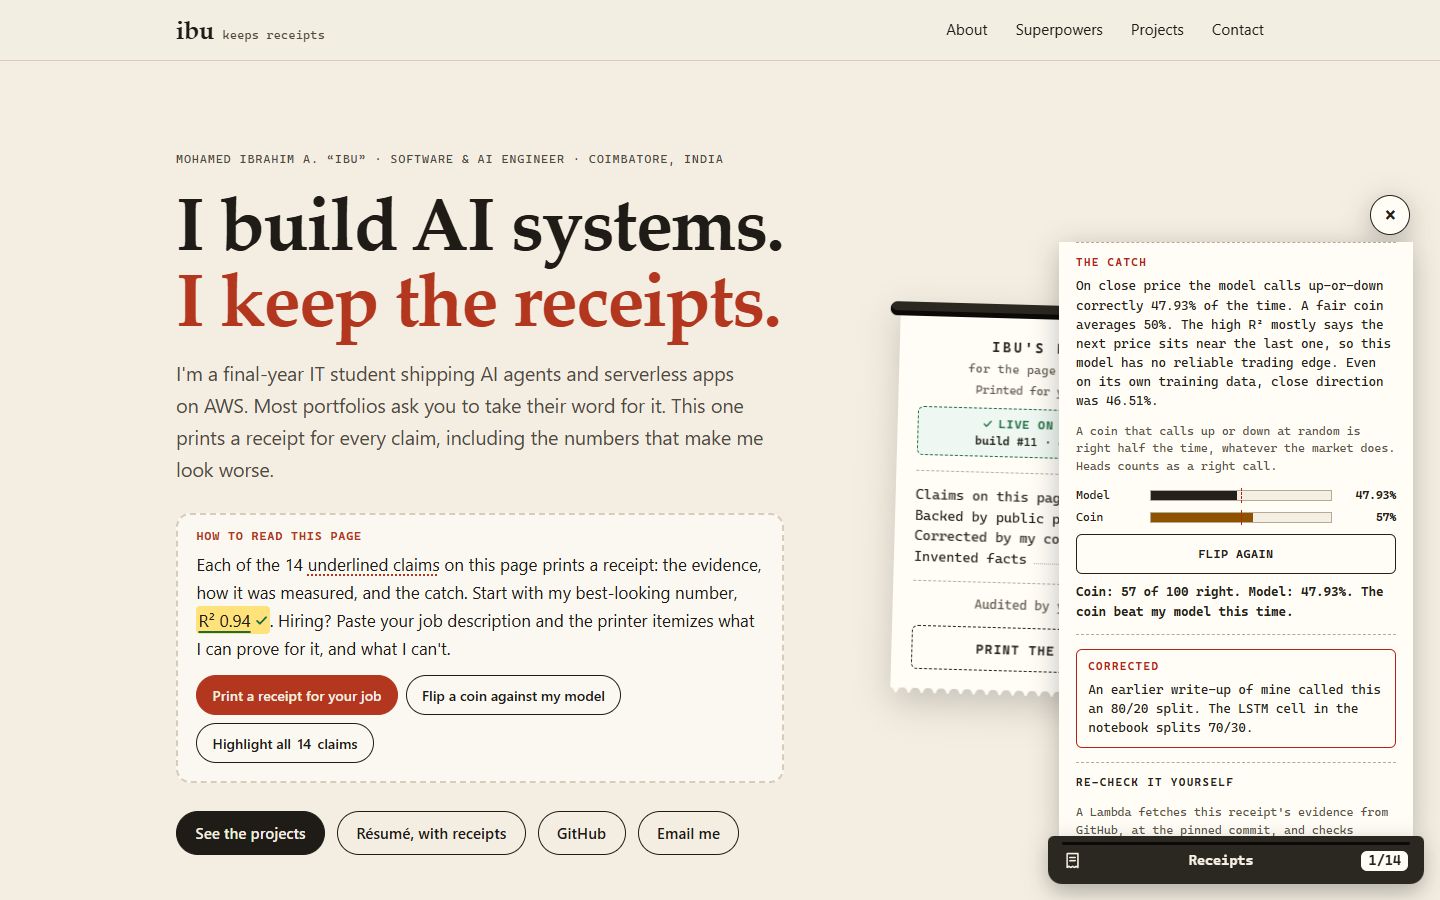
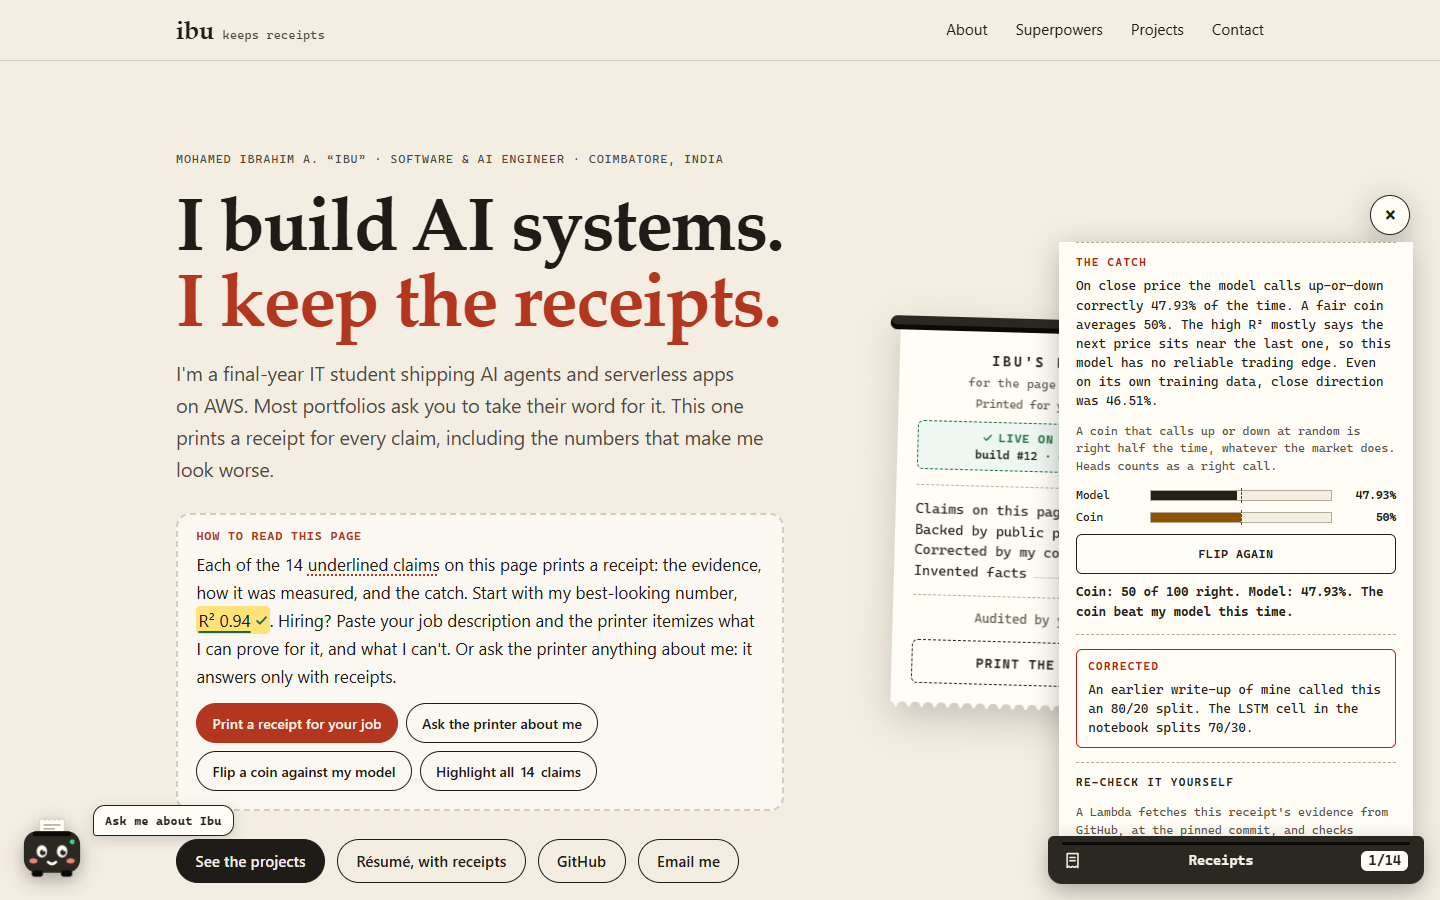
Screenshots and docs from build #12, with Chit [skip-cd]
- Every website shot recaptured from the live site at build #12, after Chit's
  hello has gone, plus three of Chit: 29 (desktop, best project), 30 (phone,
  Kubernetes: no receipt) and 31 (the hello, close up).
- Measured live at build #12: first visit about 124 KB on a desktop and 142 KB
  on a phone; 58 KB of compressed JavaScript, 25 KB of it Chit; 709 KB shipped
  in all. The README and the write-up say so, and name build #12, commit 3d38dbb.

Changed region(s): [[0.0, 0.7156, 0.5312, 0.9956], [0.5938, 0.3111, 0.75, 0.8089]]

diff --git a/README.md b/README.md
@@ -29,7 +29,7 @@ What else it does:
 - **A receipt for your job.** Paste a job description, or pick one of three samples, and the printer itemizes it against what I can prove. Every requirement it recognises prints as **Proven** (linked to the exact file and line, at a pinned commit), **Partial** (with the reason) or **No receipt** ("I won't claim this"). It reads must-haves and nice-to-haves from the description's own headings. It runs entirely in the browser; nothing you paste is sent or saved. A closer reading by Amazon Nova Micro on Bedrock is built and tested on the [`bedrock-reader`](https://github.com/MdIbuA/ibu-receipts/tree/bedrock-reader) branch, waiting on Bedrock access for my account.
 - **Coin vs. model.** A **Flip a coin against my model** button on the first screen prints the CryptoPulse receipt and flips a coin 100 times against my LSTM's 47.93% direction accuracy. The coin often wins, and the receipt says so.
 - **The itemized bill.** A summary receipt with claims verified, partial and self-reported, write-ups corrected, invented facts (0), and how many receipts *you* have audited.
-- **The page's own receipt.** The hero receipt shows which Amplify build and commit you're looking at (for example "Live on AWS Amplify · build #11 · commit 344399e"). That line, and the footer claim "deployed on AWS Amplify", print a receipt the Amplify build writes at deploy time: app, branch, build number and commit. I don't write those numbers. AWS does.
+- **The page's own receipt.** The hero receipt shows which Amplify build and commit you're looking at (for example "Live on AWS Amplify · build #12 · commit 3d38dbb"). That line, and the footer claim "deployed on AWS Amplify", print a receipt the Amplify build writes at deploy time: app, branch, build number and commit. I don't write those numbers. AWS does.
 - **Re-check it yourself.** Every receipt ends with **Re-check with AWS Lambda**. A Lambda behind API Gateway fetches the evidence from GitHub at the pinned commit and runs that claim's checks again, live. There are 31 checks across 13 claims. On the page's own receipt, it asks the Amplify API which build is live.
 - **The page prints itself as you scroll.** Scissors cut each section's top edge into a perforation, section numbers are stamped and titles print line by line, cards feed up a beat apart, proof lines get a highlighter pass and the email address types itself. It's all CSS scroll-driven animation (`site/assets/motion.css`): the scroll position is the clock, so no script decides what shows, and reduced-motion visitors and older browsers get the finished page. On screens 1440px and wider, a small receipt in the margin prints a line for each section you stay to read.
 - **A résumé with receipts.** [`/resume/`](https://main.d1nj3qfdmf673t.amplifyapp.com/resume/) prints my résumé as one long receipt, with a PDF to download. It's generated from the same typed claims as the receipts (`scripts/resume.ts`), so it can't say anything a receipt doesn't. Every claim links to its live receipt, leads with its headline numbers and prints its catch, and the totals at the bottom are the bill's. The PDF is real text, tagged for screen readers and applicant trackers.
@@ -114,7 +114,7 @@ The site is TypeScript 7 under every strict flag, compiled by `tsc` into plain E
 - **The résumé can't drift.** It's printed from the claims. A test fails if the committed page differs from what the script prints, if a project leads with a line its receipt doesn't have, or if the PDF is older than the page it was printed from (it stores the hash of what it printed).
 - **Nothing ships unchecked.** The Amplify build runs the type check and the tests before it compiles anything, so a broken rule stops the deploy. GitHub Actions runs the same on every push, plus the evidence check.
 
-Everything the site ships totals 621 KB, mostly images and the résumé's 212 KB PDF, none of which a first visit downloads except the portrait. A visitor's first load is about 91 KB over the wire on a desktop and 110 KB on a phone. The JavaScript is 33 KB compressed, and the browser fetches every module at once through `modulepreload` hints. The scroll animations are one 3 KB stylesheet, with no script.
+Everything the site ships totals 709 KB, mostly images and the résumé's 212 KB PDF, none of which a first visit downloads except the portrait. A visitor's first load is about 124 KB over the wire on a desktop and 142 KB on a phone. The JavaScript is 58 KB compressed (25 KB of it is Chit), and the browser fetches every module at once through `modulepreload` hints. The scroll animations are one 3 KB stylesheet, with no script.
 
 ## Run it locally
 
@@ -173,8 +173,10 @@ Link evidence with **commit permalinks** (on GitHub, open the file and press `y`
 
 | | |
 |---|---|
+| ![Chit open: "What's Ibu's best project?" answered with the page's own suggestion and its catch, stamped Verified](docs/screenshots/29-chit.png) | ![Chit on a phone: "Does Ibu know Kubernetes?" stamped No receipt, with a worried face](docs/screenshots/30-chit-mobile.png) |
+| ![Chit's hello when the page opens: "I'm Chit", above Chit in the corner](docs/screenshots/31-chit-hello.png) | ![The hero on a phone](docs/screenshots/09-live-mobile.png) |
 | ![Desktop: a printed receipt](docs/screenshots/10-feature-receipt-desktop.png) | ![Mobile: the receipt as a bottom sheet](docs/screenshots/11-feature-receipt-mobile.png) |
-| ![The itemized bill](docs/screenshots/12-feature-bill.png) | ![The page's own receipt, written by the Amplify build: build #11, commit 344399e](docs/screenshots/15-live-site-receipt.png) |
+| ![The itemized bill](docs/screenshots/12-feature-bill.png) | ![The page's own receipt, written by the Amplify build: build #12, commit 3d38dbb](docs/screenshots/15-live-site-receipt.png) |
 | ![Mid-scroll: scissors finish cutting the Superpowers section's top edge while its number is stamped and its title prints](docs/screenshots/24-scroll-motion.png) | ![The visit receipt in the margin after reading every section: Read in full](docs/screenshots/25-visit-tape.png) |
 | ![A job receipt: proven skills linked to the exact file and line, and DynamoDB printed as No receipt](docs/screenshots/22-job-receipt.png) | ![A job receipt's totals on a phone, stamped 11 of 17 proven](docs/screenshots/23-job-receipt-mobile.png) |
 | ![The résumé, printed as one long receipt, with a PDF to download](docs/screenshots/27-resume.png) | ![The résumé PDF's selected work: each project's headline numbers, its catch, its correction and its evidence](docs/screenshots/28-resume-pdf.png) |

diff --git a/SCREENSHOTS.md b/SCREENSHOTS.md
@@ -2,7 +2,7 @@
 
 Save each one as a PNG in `docs/screenshots/` with exactly this filename. README.md and PROJECT_WRITEUP.md already point at these names.
 
-**Status (Nov 1): all 28 are captured.** The website shots (#8–15, #20–28) come from the live site at build #11 (headless Chrome, light mode; desktop 1440×900, phone 360×740 at 2×). The AWS console shots (#1–7, #16–19) were taken on Oct 30 in a signed-in console window, with the account ID masked in the page before each capture.
+**Status (Nov 1): all 31 are captured.** The website shots (#8–15, #20–31) come from the live site at build #12 (headless Chrome, light mode; desktop 1440×900, phone 360×740 at 2×). The AWS console shots (#1–7, #16–19) were taken on Oct 30 in a signed-in console window, with the account ID masked in the page before each capture.
 
 **Keep the build numbers consistent.** Screenshot-only pushes don't change the site, so end their commit message with `[skip-cd]`. Amplify then skips the build, and the live receipt keeps showing the same build as your console screenshots:
 
@@ -67,12 +67,13 @@ The animations run on the scroll position, so each shot is a frame taken at an e
 
 ## Chit, the printer you can ask
 
-Capture these from the live site after the deploy that ships Chit, so the hero stub behind it shows a real build.
+Every website shot waits out Chit's six-second hello first, except #31, which is the hello.
 
 | # | File | Where | Must be visible |
 |---|---|---|---|
-| 29 | `29-chit.png` | Desktop 1440×900 → click Chit in the bottom-left corner → ask "What's Ibu's best project?" | The question as a yellow note, the chit stamped **Verified** quoting "Start with my best-looking number" and the catch, the suggestion coupons, and Chit's face on the printer. **Not captured yet.** |
-| 30 | `30-chit-mobile.png` | Device mode 360 → hint box → **Ask the printer about me** → ask "Does Ibu know Kubernetes?" | The bottom sheet with **No receipt** stamped and Chit's worried face, with no sideways scrolling. **Not captured yet.** |
+| 29 | `29-chit.png` | Desktop 1440×900 → click Chit in the bottom-left corner → ask "What's Ibu's best project?" | The question as a yellow note, the chit stamped **Verified** quoting "Start with my best-looking number" and the catch, the suggestion coupons, and Chit's face on the printer. **Captured** (Chit winking). |
+| 30 | `30-chit-mobile.png` | Device mode 360 → hint box → **Ask the printer about me** → ask "Does Ibu know Kubernetes?" | The bottom sheet with **No receipt** stamped and Chit's worried face, with no sideways scrolling. **Captured.** |
+| 31 | `31-chit-hello.png` | Desktop at 2×, 2.6 seconds after the page opens, the bottom-left corner | Chit's hello above its head ("Good evening! I'm Chit.", by the clock) with Chit smiling and its "Ask me about Ibu" bubble. **Captured.** |
 
 ## The live portfolio (proves completeness and usability)
 

diff --git a/PROJECT_WRITEUP.md b/PROJECT_WRITEUP.md
@@ -77,7 +77,7 @@ The hero's **Résumé, with receipts** button opens my résumé printed as one l
 
 ![Captured at build #8: the page's own receipt (build #8, commit 6dd2cda) next to Amplify's build #8, whose log prints the same commit](https://raw.githubusercontent.com/MdIbuA/ibu-receipts/main/docs/screenshots/07-site-receipt-vs-console.png)
 
-The hero's receipt names the Amplify build and commit you're looking at, for example "build #11 · commit 344399e". I don't type those numbers. The Amplify build stamps them into the page at deploy time, so the build in the Amplify console and the build on the page are the same one.
+The hero's receipt names the Amplify build and commit you're looking at, for example "build #12 · commit 3d38dbb". I don't type those numbers. The Amplify build stamps them into the page at deploy time, so the build in the Amplify console and the build on the page are the same one.
 
 ### Re-check it yourself, live on AWS Lambda
 
@@ -166,7 +166,7 @@ I tested at 360px and on desktop, with the keyboard alone, in light and dark mod
 - **A backend earns its place by doing what a static page can't.** One route and one Lambda add an independent, live check of the evidence.
 - **A chatbot can be honest by construction.** Chit can't make anything up because it has nothing to make it up with. It can only print what's on file, and the tests check every quote.
 - **A playful feature still has to be a good citizen.** Non-modal, keyboard-friendly, quiet for reduced motion, and plain links without JavaScript. The fun layer can't cost a recruiter anything.
-- **Small is fast.** A first desktop visit is about 91 KB over the wire, with no framework and system fonts.
+- **Small is fast.** A first desktop visit is about 124 KB over the wire, Chit included, with no framework and system fonts.
 
 ## What's next
 
